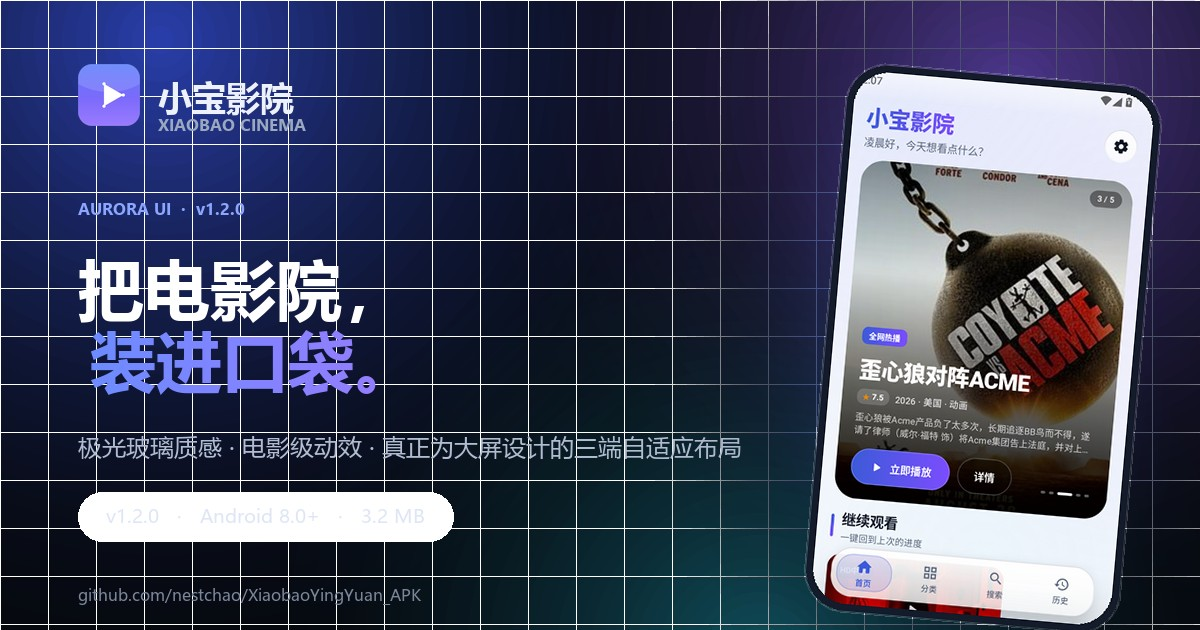
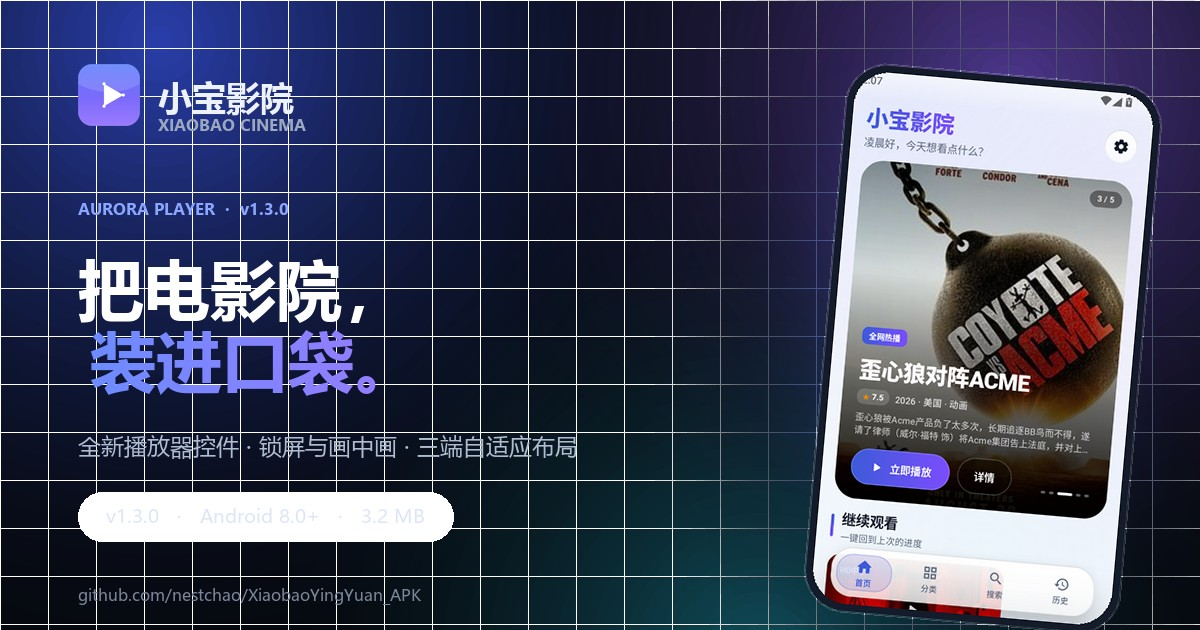
chore(site): point landing page at v1.3.0 player release
- Update hero/download/JSON-LD download URLs to the v1.3.0 release asset
- Refresh version copy, SHA-256 and release links
- Regenerate the OG image for Aurora Player v1.3.0
- Note the player upgrade in README and the site deployment notes

Changed region(s): [[0.0617, 0.6937, 0.6167, 0.754], [0.1233, 0.3016, 0.2467, 0.3619]]

diff --git a/website/index.html b/website/index.html
@@ -4,7 +4,7 @@
   <meta charset="UTF-8" />
   <meta name="viewport" content="width=device-width, initial-scale=1.0, viewport-fit=cover" />
   <title>小宝影院 · Aurora — 极简观影体验 · Android APK</title>
-  <meta name="description" content="小宝影院 v1.2.0 Aurora 版：极光玻璃质感、电影级弹簧动效、真正为手机、平板与大屏设计的三端自适应布局。3.2 MB，支持 Android 8.0+。" />
+  <meta name="description" content="小宝影院 v1.3.0 Aurora Player：全新播放器控件、锁屏与画中画，极光玻璃设计、三端自适应布局。3.2 MB，支持 Android 8.0+。" />
   <meta name="theme-color" content="#06090F" />
   <meta name="color-scheme" content="dark light" />
   <link rel="canonical" href="https://nestchao.github.io/XiaobaoYingYuan_APK/" />
@@ -13,14 +13,14 @@
   <meta property="og:type" content="website" />
   <meta property="og:site_name" content="小宝影院 · Aurora" />
   <meta property="og:title" content="小宝影院 · Aurora — 把电影院，装进口袋" />
-  <meta property="og:description" content="极光玻璃质感 · 电影级动效 · 三端自适应布局。v1.2.0 全新界面，3.2 MB 即刻安装。" />
+  <meta property="og:description" content="极光玻璃质感 · 全新播放器 · 三端自适应布局。v1.3.0 即刻安装，3.2 MB。" />
   <meta property="og:url" content="https://nestchao.github.io/XiaobaoYingYuan_APK/" />
   <meta property="og:image" content="https://nestchao.github.io/XiaobaoYingYuan_APK/assets/img/brand/og-image.jpg" />
   <meta property="og:image:width" content="1200" />
   <meta property="og:image:height" content="630" />
   <meta name="twitter:card" content="summary_large_image" />
   <meta name="twitter:title" content="小宝影院 · Aurora — 把电影院，装进口袋" />
-  <meta name="twitter:description" content="极光玻璃质感 · 电影级动效 · 三端自适应布局。v1.2.0 全新界面，3.2 MB 即刻安装。" />
+  <meta name="twitter:description" content="极光玻璃质感 · 全新播放器 · 三端自适应布局。v1.3.0 即刻安装，3.2 MB。" />
   <meta name="twitter:image" content="https://nestchao.github.io/XiaobaoYingYuan_APK/assets/img/brand/og-image.jpg" />
 
   <link rel="icon" type="image/svg+xml" href="assets/img/brand/favicon.svg" />
@@ -98,7 +98,7 @@
         <div class="hero-copy">
           <div class="eyebrow reveal" data-reveal>
             <span class="pulse-dot" aria-hidden="true"></span>
-            AURORA UI · 全新 v1.2.0
+            AURORA UI · 全新 v1.3.0
           </div>
 
           <h1 class="hero-title" data-reveal>
@@ -112,7 +112,7 @@
           </p>
 
           <div class="hero-cta" data-reveal>
-            <a class="btn btn-primary btn-lg magnetic" id="heroDownload" href="https://github.com/nestchao/XiaobaoYingYuan_APK/releases/download/v1.2.0/xiaobao-tv-1.2.0-aurora-release.apk">
+            <a class="btn btn-primary btn-lg magnetic" id="heroDownload" href="https://github.com/nestchao/XiaobaoYingYuan_APK/releases/download/v1.3.0/xiaobao-tv-1.3.0-aurora-player-release.apk">
               <svg class="icon" aria-hidden="true"><use href="#i-download" /></svg>
               <span>下载 APK</span>
               <small>3.2 MB</small>
@@ -520,7 +520,7 @@
               <img class="dl-icon" src="assets/img/brand/icon-192.png" alt="" width="76" height="76" />
               <div class="dl-app-meta">
                 <h2>小宝影院</h2>
-                <p>Aurora 版 · v1.2.0 · Android 8.0+</p>
+                <p>Aurora Player · v1.3.0 · Android 8.0+</p>
               </div>
             </div>
 
@@ -528,12 +528,12 @@
             <p class="dl-sub">下载即安装，无需登录，无需付费。安装包约 3.2 MB。</p>
 
             <div class="dl-actions">
-              <a class="btn btn-primary btn-lg magnetic" id="downloadBtn" href="https://github.com/nestchao/XiaobaoYingYuan_APK/releases/download/v1.2.0/xiaobao-tv-1.2.0-aurora-release.apk">
+              <a class="btn btn-primary btn-lg magnetic" id="downloadBtn" href="https://github.com/nestchao/XiaobaoYingYuan_APK/releases/download/v1.3.0/xiaobao-tv-1.3.0-aurora-player-release.apk">
                 <svg class="icon" aria-hidden="true"><use href="#i-download" /></svg>
                 <span>下载 APK</span>
-                <small>v1.2.0 · 3.2 MB</small>
+                <small>v1.3.0 · 3.2 MB</small>
               </a>
-              <a class="btn btn-glass btn-lg" href="https://github.com/nestchao/XiaobaoYingYuan_APK/releases/tag/v1.2.0" target="_blank" rel="noopener">
+              <a class="btn btn-glass btn-lg" href="https://github.com/nestchao/XiaobaoYingYuan_APK/releases/tag/v1.3.0" target="_blank" rel="noopener">
                 <svg class="icon" aria-hidden="true"><use href="#i-external" /></svg>
                 <span>Release 说明</span>
               </a>
@@ -541,7 +541,7 @@
 
             <div class="dl-hash">
               <span>SHA-256</span>
-              <code id="shaText">6888968d9442973f0df2bb3f1751f045fc93eb7334b5983d693a8fd71e057b4c</code>
+              <code id="shaText">6b13ec26181fc2495a5a9ce48e96c8c3cc650c64f3bd67b5d42514505f2da337</code>
               <button class="icon-btn copy-btn" id="copyHash" type="button" aria-label="复制 SHA-256" title="复制">
                 <svg class="icon" aria-hidden="true"><use href="#i-copy" /></svg>
               </button>
@@ -705,11 +705,11 @@
     "alternateName": "XiaobaoTV",
     "operatingSystem": "Android 8.0+",
     "applicationCategory": "MultimediaApplication",
-    "softwareVersion": "1.2.0",
+    "softwareVersion": "1.3.0",
     "fileSize": "3.2MB",
     "inLanguage": "zh-CN",
     "offers": { "@type": "Offer", "price": "0", "priceCurrency": "CNY" },
-    "downloadUrl": "https://github.com/nestchao/XiaobaoYingYuan_APK/releases/download/v1.2.0/xiaobao-tv-1.2.0-aurora-release.apk",
+    "downloadUrl": "https://github.com/nestchao/XiaobaoYingYuan_APK/releases/download/v1.3.0/xiaobao-tv-1.3.0-aurora-player-release.apk",
     "url": "https://nestchao.github.io/XiaobaoYingYuan_APK/",
     "screenshot": [
       "https://nestchao.github.io/XiaobaoYingYuan_APK/assets/img/screens/phone-home-light.webp",

diff --git a/README.md b/README.md
@@ -39,6 +39,12 @@ chrome, a single periwinkle→violet brand gradient, cinematic artwork and
 spring-physics motion. It ships with light and dark palettes, a new adaptive
 launcher icon and a reworked player.
 
+**v1.3.0 — Aurora Player** adds a second player pass: movie-title top bar, a
+five-button transport (episodes + ±10 s), screen lock, picture-in-picture,
+aspect-ratio switching, a scrubbing time bubble, long-press 2× speed and a
+slide-in episode panel on tablets. See
+[docs/PLAYER_UPGRADE.md](docs/PLAYER_UPGRADE.md).
+
 Highlights:
 
 - **Adaptive navigation**: floating glass bottom pill on phones, an icon rail on

diff --git a/website/README.md b/website/README.md
@@ -52,6 +52,6 @@ GitHub Pages is configured with source branch `gh-pages`, path `/`.
   runtime, so theme changes are picked up automatically.
 - Screenshots are generated from the emulator QA captures and converted to
   WebP. Keep the 760×1351 (phone) and 1440×810 (tablet) aspect ratios.
-- The download button points at the `v1.2.0` GitHub Release asset. Update the
+- The download button points at the `v1.3.0` GitHub Release asset. Update the
   URL (hero, download section, JSON-LD) when a newer version ships.
 - Everything respects `prefers-reduced-motion`.
